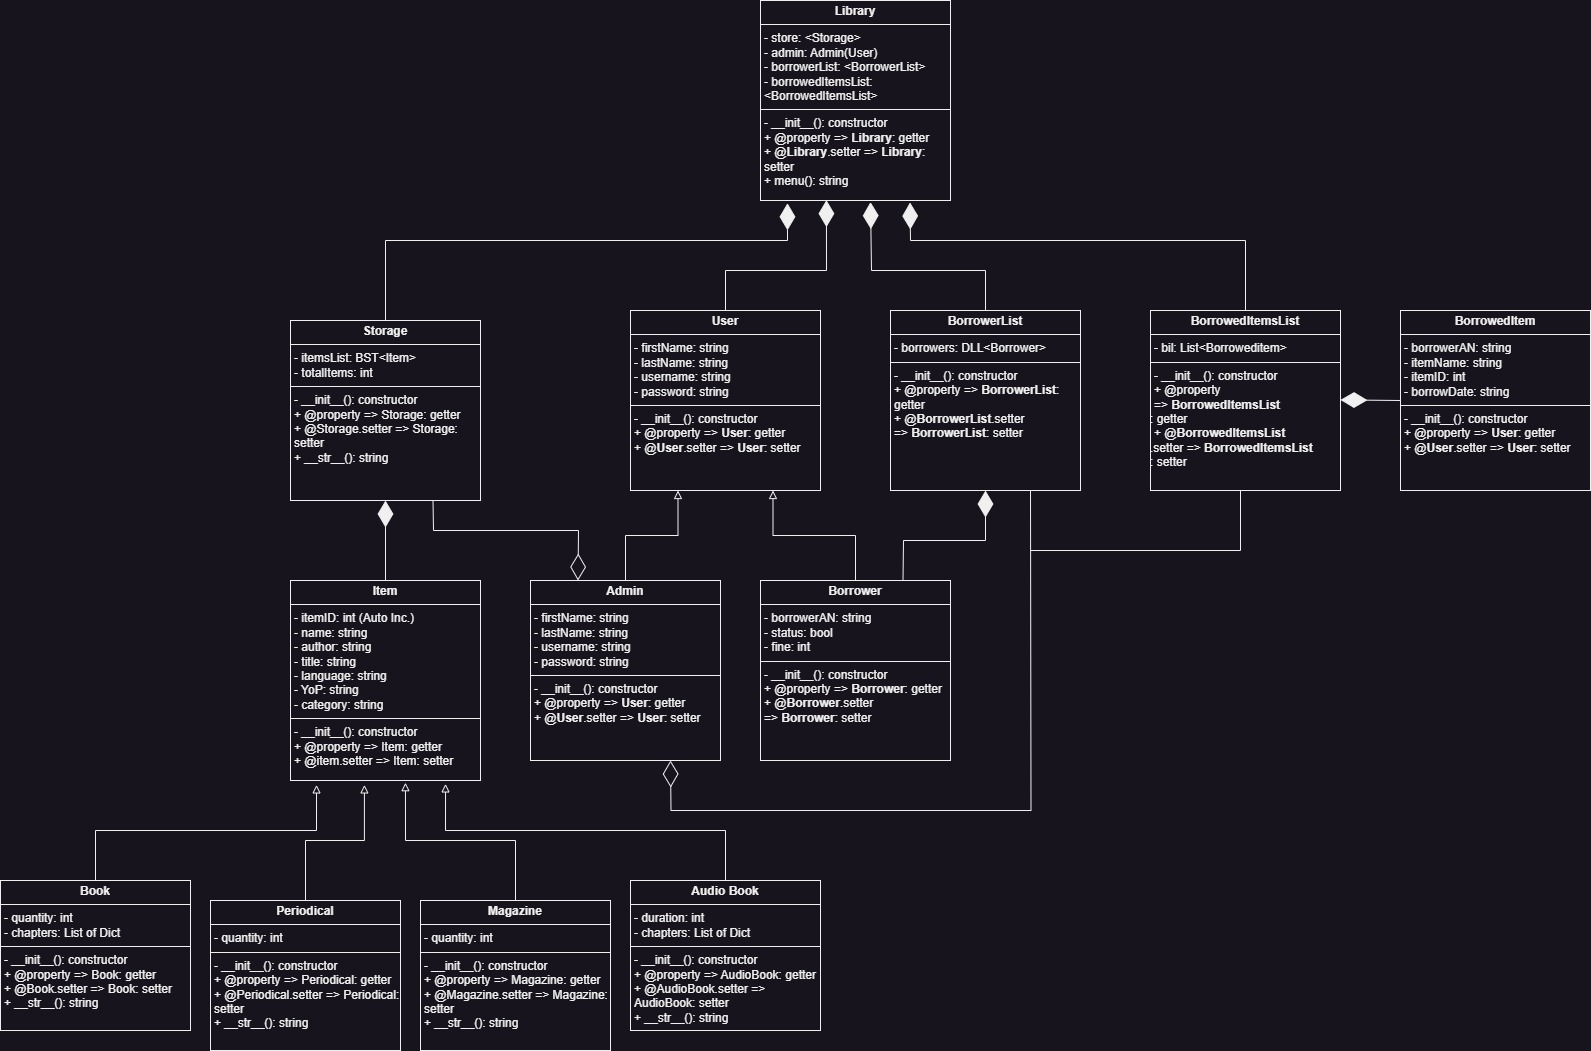
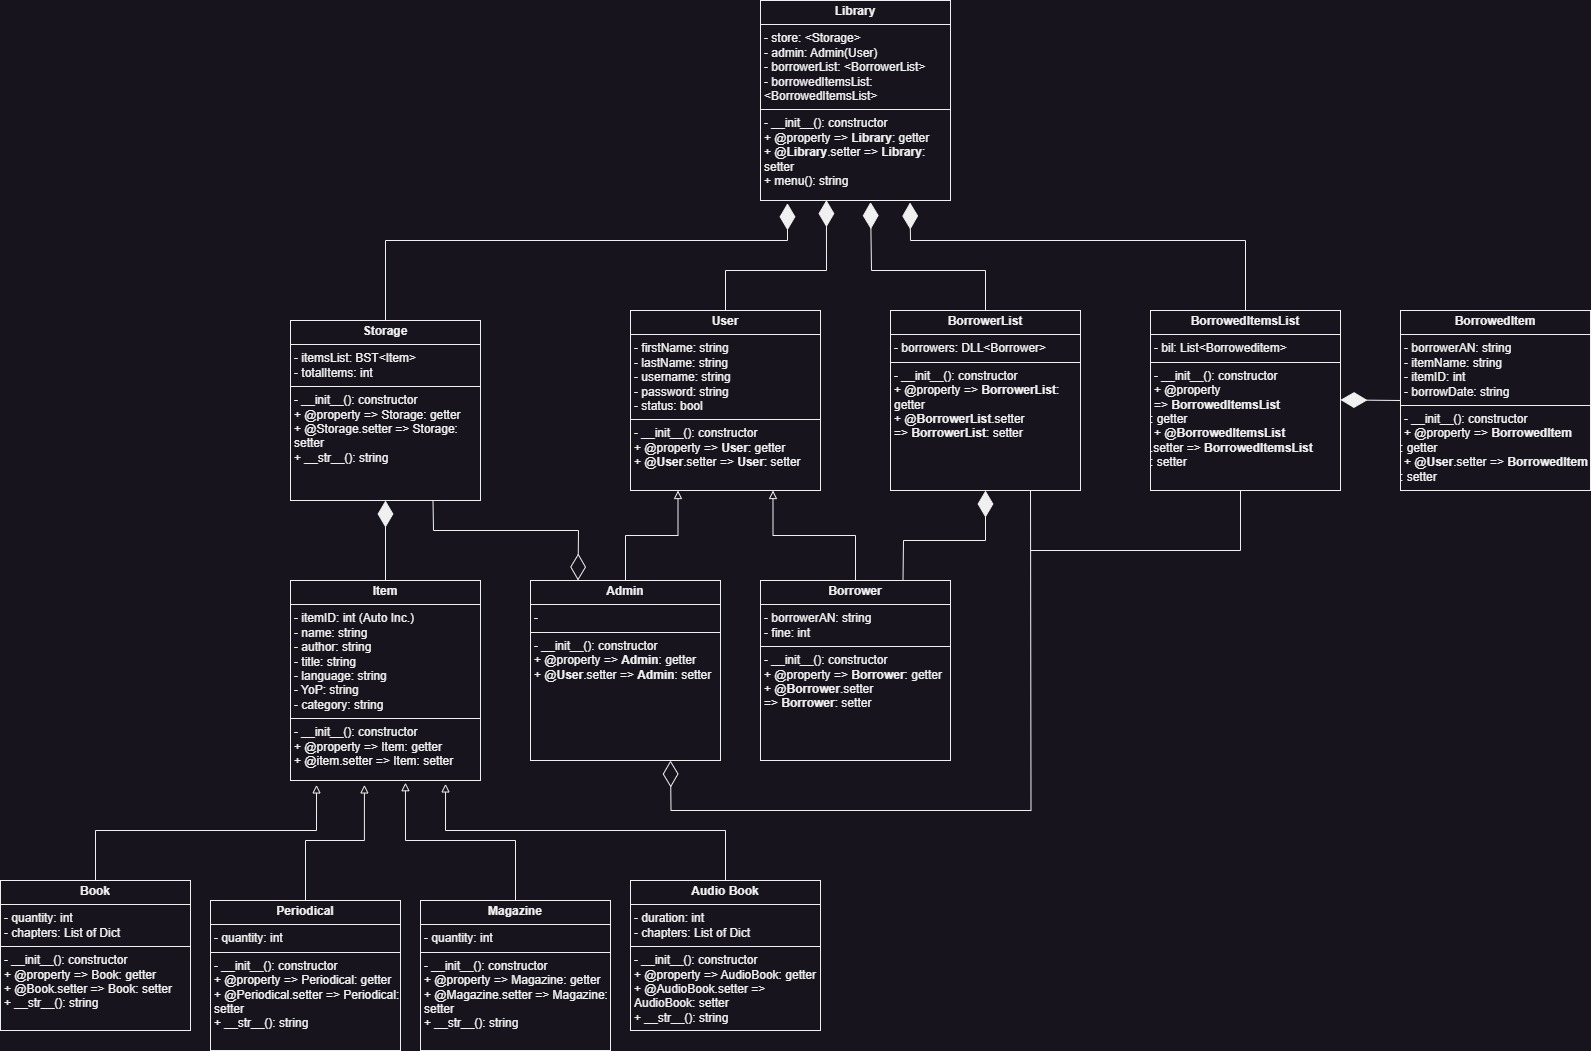
Design Updated. Modules Completed

diff --git a/Modules/user.py b/Modules/user.py
@@ -1,0 +1,42 @@
+class User:
+    def __init__(self, FN, LN, UN, Pass):
+        self.__firstName = FN
+        self.__lastName = LN
+        self.__username = UN
+        self.__password = Pass
+        self.__status = False
+
+    @property
+    def firstName(self): return self.__firstName
+
+    @firstName.setter
+    def firstName(self, val): 
+        self.__firstName = val
+
+    @property
+    def lastName(self): return self.__lastName
+
+    @lastName.setter
+    def lastName(self, val): 
+        self.__lastName = val
+
+    @property
+    def username(self): return self.__username
+
+    @username.setter
+    def username(self, val): 
+        self.__username = val
+
+    @property
+    def password(self): return self.__password
+
+    @password.setter
+    def password(self, val): 
+        self.__password = val
+        
+    @property
+    def status(self): return self.__status
+
+    @status.setter
+    def status(self, val): 
+        self.__status = val

diff --git a/Modules/borrowedItem.py b/Modules/borrowedItem.py
@@ -1,0 +1,34 @@
+class BorrowedItem:
+    def __init__(self, borroweAN, itemName, itemID, date):
+        self.__borrowerAN = borroweAN
+        self.__itemName = itemName
+        self.__itemID = itemID
+        self.__borrowDate = date
+
+    @property
+    def borrowerAN(self): return self.__borrowerAN
+
+    @borrowerAN.setter
+    def borrowerAN(self, val):
+        self.__borrowerAN = val
+
+    @property
+    def itemName(self): return self.__itemName
+
+    @itemName.setter
+    def itemName(self, val):
+        self.__itemName = val
+
+    @property
+    def itemID(self): return self.__itemID
+
+    @itemID.setter
+    def itemID(self, val):
+        self.__itemID = val
+
+    @property
+    def borrowDate(self): return self.__borrowDate
+
+    @borrowDate.setter
+    def borrowDate(self, val):
+        self.__borrowDate = val

diff --git a/Modules/borrower.py b/Modules/borrower.py
@@ -1,0 +1,21 @@
+from Modules.user import User
+
+class Borrower(User):
+    def __init__(self, FN, LN, UN, Pass):
+        super().__init__(FN, LN, UN, Pass)
+        self.__borrowerAN = ""
+        self.__fine = 0
+
+    @property
+    def borrowerAN(self): return self.__borrowerAN
+
+    @borrowerAN.setter
+    def borrowerAN(self, val):
+        self.__borrowerAN = val
+
+    @property
+    def fine(self): return self.__fine
+
+    @fine.setter
+    def fine(self, val):
+        self.__fine += val

diff --git a/Modules/borrowedItems.py b/Modules/borrowedItems.py
@@ -1,0 +1,12 @@
+from Modules.borrowedItem import BorrowedItem
+
+class BorrowedItemsList:
+    def __init__(self):
+        self.__BIL = []
+
+    @property
+    def BIL(self): return self.__BIL
+
+    def addNewBorrowedItem(self, borroweAN, itemName, itemID, date):
+        borrowedItem = BorrowedItem(borroweAN, itemName, itemID, date)
+        self.__BIL.append(borrowedItem)

diff --git a/Modules/borrowerList.py b/Modules/borrowerList.py
@@ -1,0 +1,12 @@
+from Modules.borrower import Borrower
+
+class BorrowerList:
+    def __init__(self):
+        self.__borrowersList = []
+
+    @property
+    def borrowersList(self): return self.__borrowersList
+
+    def addNewBorrower(self, FN, LN, UN, Pass):
+        borrower = Borrower(FN, LN, UN, Pass)
+        self.__borrowersList.append(borrower)

diff --git a/Modules/library.py b/Modules/library.py
@@ -1,4 +1,7 @@
 from Modules.storage import Storage
+from Modules.user import User
+from Modules.borrowerList import BorrowerList
+from Modules.borrowedItems import BorrowedItemsList
 
 class Library:
     def __init__(self):

diff --git a/Modules/admin.py b/Modules/admin.py
@@ -1,0 +1,5 @@
+from Modules.user import User
+
+class Admin(User):
+    def __init__(self, FN, LN, UN, Pass):
+        super().__init__(FN, LN, UN, Pass)
